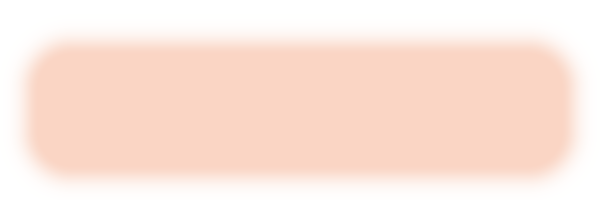
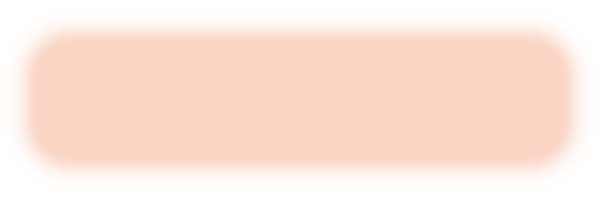
Mail: halo centred, picture addresses carry a content hash (mail proxies cache pictures)

Changed region(s): [[0.09, 0.84, 0.93, 0.9], [0.09, 0.15, 0.93, 0.21]]

diff --git a/web/app/mailtext.py b/web/app/mailtext.py
@@ -19,6 +19,10 @@ and `[data-ogsb]` (set by Outlook.com and its apps when they recolour) bring our
 recolour on their own (Gmail app) we cannot stop, so the colours are chosen to stay readable when inverted.
 Texts live in i18n.py (`mail_<kind>_subject|body|button|note`), so they exist in both languages.
 """
+import functools
+import hashlib
+import os
+
 from . import i18n, mail
 from .layout import esc, fill
 from .users import User
@@ -119,6 +123,14 @@ PICTURES = {"backdrop": (600, 360), "glow": (300, 100), "button": (260, 54)}
 CAPS = {"card-top": (520, 40), "card-bottom": (520, 28)}
 
 
+@functools.lru_cache(maxsize=None)
+def _version(name: str) -> str:
+    """Short hash of a picture file for `?v=`: mail proxies (Apple Mail, Gmail) keep a picture by its address for
+    a long time, so a changed picture needs a new address (an old halo showed as a strip under the button)."""
+    with open(os.path.join(os.path.dirname(__file__), "static", "mail", name + ".png"), "rb") as handle:
+        return hashlib.sha256(handle.read()).hexdigest()[:8]
+
+
 def _lighter(colour: str, share: float = 0.28) -> str:
     """`#RRGGBB` mixed with white, for the gradient of the Outlook button."""
     red, green, blue = (int(colour[i:i + 2], 16) for i in (1, 3, 5))
@@ -134,7 +146,7 @@ def _pictures(theme: str) -> dict[str, str]:
         return {name: "" for name in names}
 
     def url(name: str) -> str:
-        return esc(f"{base}/static/mail/{name}-{theme}.png")
+        return esc(f"{base}/static/mail/{name}-{theme}.png?v={_version(f'{name}-{theme}')}")
 
     def css(name: str, picture: str, position: str) -> str:
         width, height = PICTURES[picture]

diff --git a/web/tests/test_resets.py b/web/tests/test_resets.py
@@ -198,7 +198,7 @@ class LinkMailTest(unittest.TestCase):
             for theme in ("light", "dark"):
                 html = mailtext.build("reset", self.user, "https://x/reset/T", 3600, theme)[2]
                 for name in ("backdrop", "glow", "button", "card-top", "card-bottom"):
-                    self.assertIn(f"https://hub.example.com/static/mail/{name}-{theme}.png", html)
+                    self.assertRegex(html, rf"https://hub.example.com/static/mail/{name}-{theme}\.png\?v=[0-9a-f]{{8}}")
                 self.assertNotIn("-light.png" if theme == "dark" else "-dark.png", html)
                 self.assertIsNone(re.search(r"%[A-Z_]+%", html))
 

diff --git a/web/tools/make_mail_images.py b/web/tools/make_mail_images.py
@@ -132,7 +132,7 @@ def button_glow(name, palette, size=(600, 200), button=(520, 108)):
     accent = palette["ACCENT"]
 
     def shade(x, y):
-        distance = box_distance(x, y, left, top + 10, left + bw, top + bh + 10, 32)
+        distance = box_distance(x, y, left, top, left + bw, top + bh, 32)
         if distance <= 0:
             return (*accent, 0.42)  # continuous with the halo, the rounded corners of the button show no box
         return (*accent, 0.42 * math.exp(-(distance / 18) ** 2))
